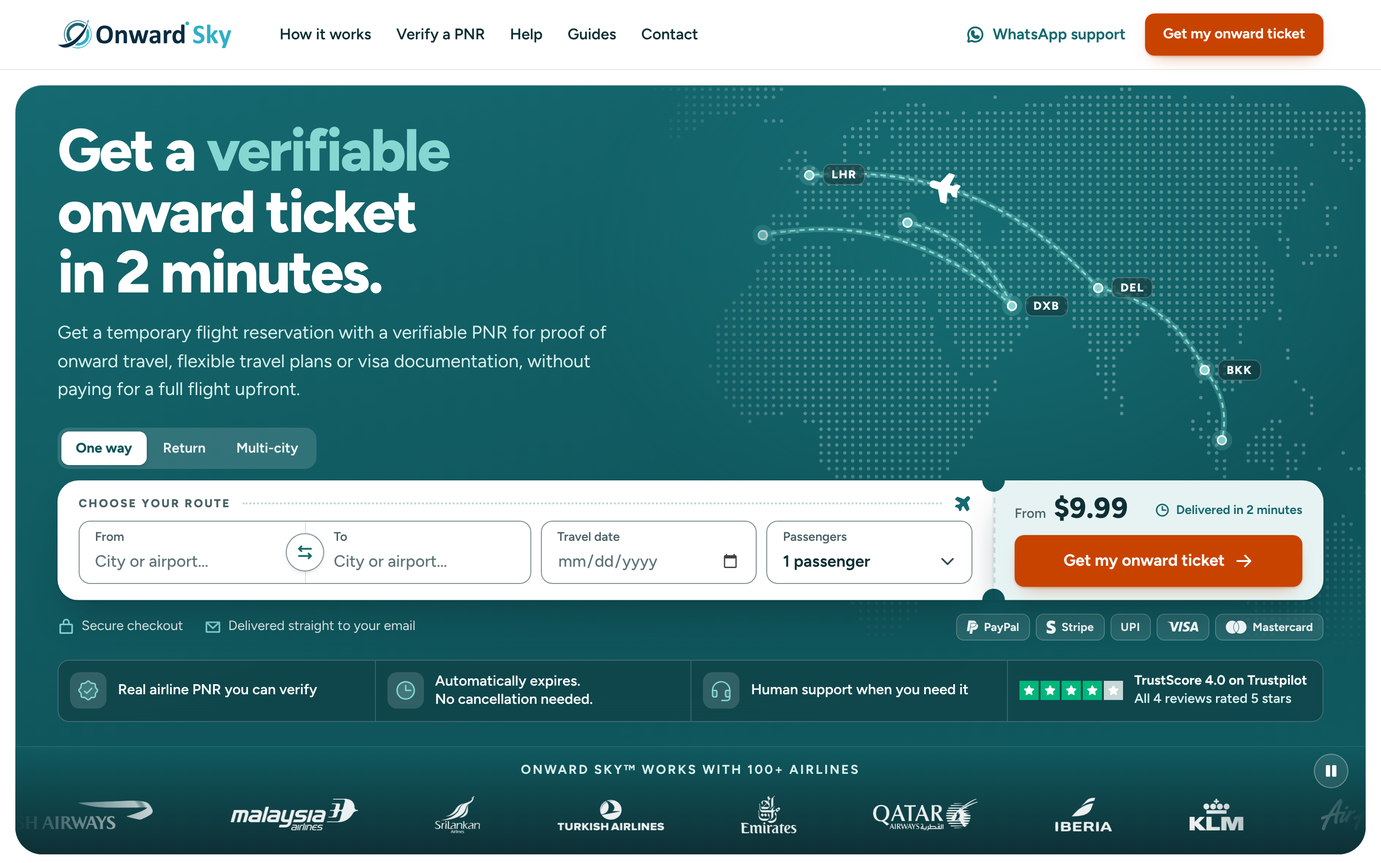
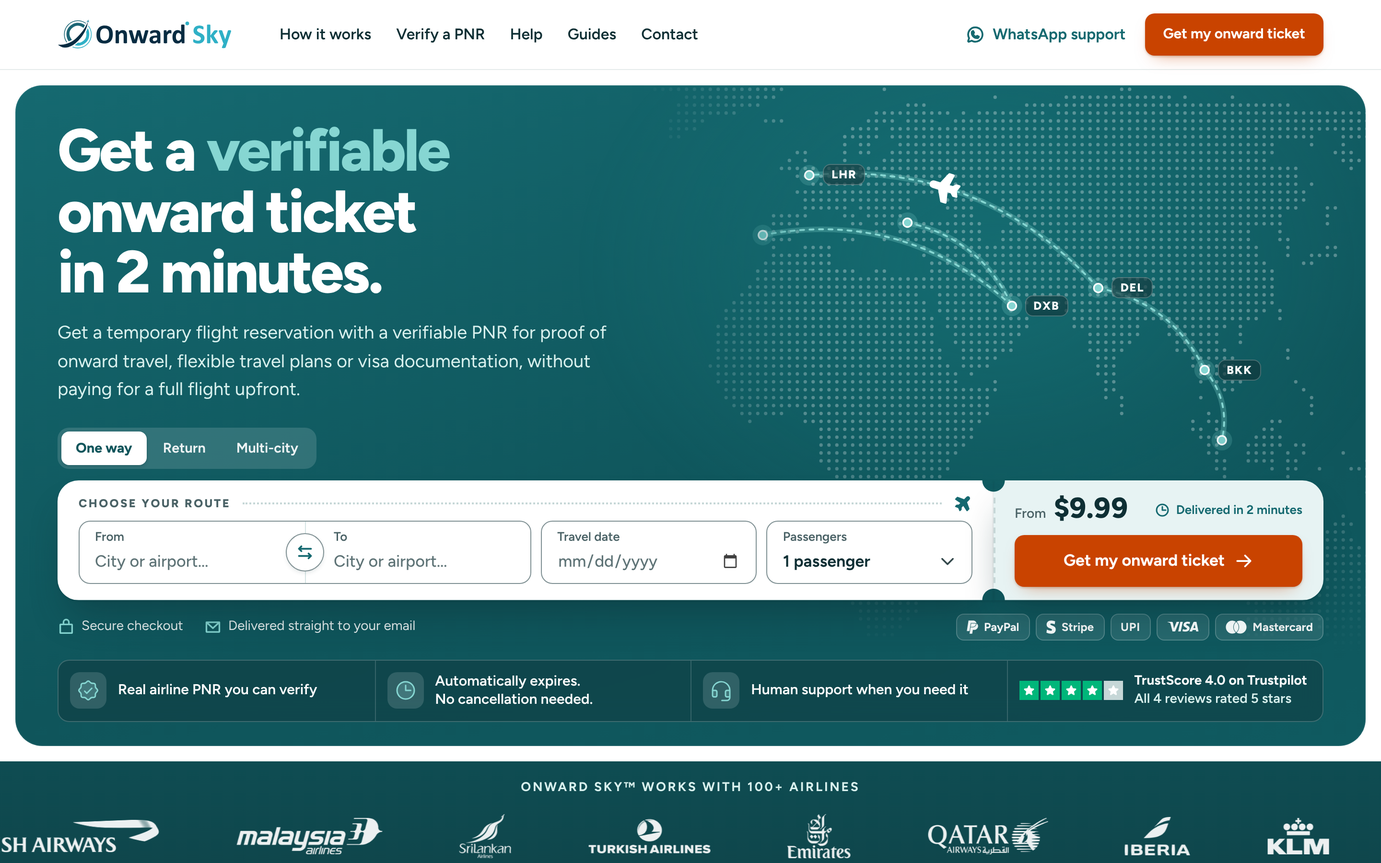
Airline strip as its own full-width band; clouds behind the reviews
- The logo strip leaves the hero card: a full-width band under it, no edge
  fade, in the hero's deep teal under a 22-42% veil of the heading teal (one
  step darker, same family; no new colour).
- The reviews section gets a sky: Tabler filled clouds as soft banks and a
  dashed flight path with Tabler's filled plane, built by the art script,
  placed around the content at every width.
- Docs and screenshots updated.

Claude-Session: https://claude.ai/code/session_01VmuJNxnGnwEJR8xbB3iXyr

Changed region(s): [[0.0, 0.84, 1.0, 1.0]]

diff --git a/onwardsky-premium-redesign/index.html b/onwardsky-premium-redesign/index.html
@@ -224,45 +224,46 @@
             </li>
           </ul>
         </div>
+      </div>
 
-        <div class="strip" data-marquee>
-          <h2 class="strip-title" id="strip-title"><span translate="no">Onward&nbsp;Sky™</span> works with 100+&nbsp;airlines</h2>
-          <div class="marquee">
-            <ul class="marquee-track" aria-labelledby="strip-title">
-              <li><img src="assets/airlines/british-airways.webp" alt="British Airways" width="457" height="71" style="--h: 27px"></li>
-              <li><img src="assets/airlines/malaysia-airlines.webp" alt="Malaysia Airlines" width="386" height="96" style="--h: 30px"></li>
-              <li><img src="assets/airlines/srilankan-airlines.webp" alt="SriLankan Airlines" width="114" height="96" style="--h: 36px"></li>
-              <li><img src="assets/airlines/turkish-airlines.webp" alt="Turkish Airlines" width="333" height="96" style="--h: 29px"></li>
-              <li><img src="assets/airlines/emirates.webp" alt="Emirates" width="139" height="96" style="--h: 36px"></li>
-              <li><img src="assets/airlines/qatar-airways.webp" alt="Qatar Airways" width="318" height="96" style="--h: 30px"></li>
-              <li><img src="assets/airlines/iberia.webp" alt="Iberia" width="161" height="96" style="--h: 32px"></li>
-              <li><img src="assets/airlines/klm.webp" alt="KLM" width="164" height="96" style="--h: 30px"></li>
-              <li><img src="assets/airlines/airasia.webp" alt="AirAsia" width="235" height="96" style="--h: 30px"></li>
-              <li aria-hidden="true"><img src="assets/airlines/british-airways.webp" alt="" width="457" height="71" style="--h: 27px"></li>
-              <li aria-hidden="true"><img src="assets/airlines/malaysia-airlines.webp" alt="" width="386" height="96" style="--h: 30px"></li>
-              <li aria-hidden="true"><img src="assets/airlines/srilankan-airlines.webp" alt="" width="114" height="96" style="--h: 36px"></li>
-              <li aria-hidden="true"><img src="assets/airlines/turkish-airlines.webp" alt="" width="333" height="96" style="--h: 29px"></li>
-              <li aria-hidden="true"><img src="assets/airlines/emirates.webp" alt="" width="139" height="96" style="--h: 36px"></li>
-              <li aria-hidden="true"><img src="assets/airlines/qatar-airways.webp" alt="" width="318" height="96" style="--h: 30px"></li>
-              <li aria-hidden="true"><img src="assets/airlines/iberia.webp" alt="" width="161" height="96" style="--h: 32px"></li>
-              <li aria-hidden="true"><img src="assets/airlines/klm.webp" alt="" width="164" height="96" style="--h: 30px"></li>
-              <li aria-hidden="true"><img src="assets/airlines/airasia.webp" alt="" width="235" height="96" style="--h: 30px"></li>
-              <li aria-hidden="true"><img src="assets/airlines/british-airways.webp" alt="" width="457" height="71" style="--h: 27px"></li>
-              <li aria-hidden="true"><img src="assets/airlines/malaysia-airlines.webp" alt="" width="386" height="96" style="--h: 30px"></li>
-              <li aria-hidden="true"><img src="assets/airlines/srilankan-airlines.webp" alt="" width="114" height="96" style="--h: 36px"></li>
-              <li aria-hidden="true"><img src="assets/airlines/turkish-airlines.webp" alt="" width="333" height="96" style="--h: 29px"></li>
-              <li aria-hidden="true"><img src="assets/airlines/emirates.webp" alt="" width="139" height="96" style="--h: 36px"></li>
-              <li aria-hidden="true"><img src="assets/airlines/qatar-airways.webp" alt="" width="318" height="96" style="--h: 30px"></li>
-              <li aria-hidden="true"><img src="assets/airlines/iberia.webp" alt="" width="161" height="96" style="--h: 32px"></li>
-              <li aria-hidden="true"><img src="assets/airlines/klm.webp" alt="" width="164" height="96" style="--h: 30px"></li>
-              <li aria-hidden="true"><img src="assets/airlines/airasia.webp" alt="" width="235" height="96" style="--h: 30px"></li>
-            </ul>
-          </div>
+      <div class="strip" data-marquee>
+        <h2 class="strip-title" id="strip-title"><span translate="no">Onward&nbsp;Sky™</span> works with 100+&nbsp;airlines</h2>
+        <div class="marquee">
+          <ul class="marquee-track" aria-labelledby="strip-title">
+            <li><img src="assets/airlines/british-airways.webp" alt="British Airways" width="457" height="71" style="--h: 27px"></li>
+            <li><img src="assets/airlines/malaysia-airlines.webp" alt="Malaysia Airlines" width="386" height="96" style="--h: 30px"></li>
+            <li><img src="assets/airlines/srilankan-airlines.webp" alt="SriLankan Airlines" width="114" height="96" style="--h: 36px"></li>
+            <li><img src="assets/airlines/turkish-airlines.webp" alt="Turkish Airlines" width="333" height="96" style="--h: 29px"></li>
+            <li><img src="assets/airlines/emirates.webp" alt="Emirates" width="139" height="96" style="--h: 36px"></li>
+            <li><img src="assets/airlines/qatar-airways.webp" alt="Qatar Airways" width="318" height="96" style="--h: 30px"></li>
+            <li><img src="assets/airlines/iberia.webp" alt="Iberia" width="161" height="96" style="--h: 32px"></li>
+            <li><img src="assets/airlines/klm.webp" alt="KLM" width="164" height="96" style="--h: 30px"></li>
+            <li><img src="assets/airlines/airasia.webp" alt="AirAsia" width="235" height="96" style="--h: 30px"></li>
+            <li aria-hidden="true"><img src="assets/airlines/british-airways.webp" alt="" width="457" height="71" style="--h: 27px"></li>
+            <li aria-hidden="true"><img src="assets/airlines/malaysia-airlines.webp" alt="" width="386" height="96" style="--h: 30px"></li>
+            <li aria-hidden="true"><img src="assets/airlines/srilankan-airlines.webp" alt="" width="114" height="96" style="--h: 36px"></li>
+            <li aria-hidden="true"><img src="assets/airlines/turkish-airlines.webp" alt="" width="333" height="96" style="--h: 29px"></li>
+            <li aria-hidden="true"><img src="assets/airlines/emirates.webp" alt="" width="139" height="96" style="--h: 36px"></li>
+            <li aria-hidden="true"><img src="assets/airlines/qatar-airways.webp" alt="" width="318" height="96" style="--h: 30px"></li>
+            <li aria-hidden="true"><img src="assets/airlines/iberia.webp" alt="" width="161" height="96" style="--h: 32px"></li>
+            <li aria-hidden="true"><img src="assets/airlines/klm.webp" alt="" width="164" height="96" style="--h: 30px"></li>
+            <li aria-hidden="true"><img src="assets/airlines/airasia.webp" alt="" width="235" height="96" style="--h: 30px"></li>
+            <li aria-hidden="true"><img src="assets/airlines/british-airways.webp" alt="" width="457" height="71" style="--h: 27px"></li>
+            <li aria-hidden="true"><img src="assets/airlines/malaysia-airlines.webp" alt="" width="386" height="96" style="--h: 30px"></li>
+            <li aria-hidden="true"><img src="assets/airlines/srilankan-airlines.webp" alt="" width="114" height="96" style="--h: 36px"></li>
+            <li aria-hidden="true"><img src="assets/airlines/turkish-airlines.webp" alt="" width="333" height="96" style="--h: 29px"></li>
+            <li aria-hidden="true"><img src="assets/airlines/emirates.webp" alt="" width="139" height="96" style="--h: 36px"></li>
+            <li aria-hidden="true"><img src="assets/airlines/qatar-airways.webp" alt="" width="318" height="96" style="--h: 30px"></li>
+            <li aria-hidden="true"><img src="assets/airlines/iberia.webp" alt="" width="161" height="96" style="--h: 32px"></li>
+            <li aria-hidden="true"><img src="assets/airlines/klm.webp" alt="" width="164" height="96" style="--h: 30px"></li>
+            <li aria-hidden="true"><img src="assets/airlines/airasia.webp" alt="" width="235" height="96" style="--h: 30px"></li>
+          </ul>
         </div>
       </div>
     </section>
 
     <section class="reviews" aria-labelledby="reviews-title">
+      <div class="reviews-sky" aria-hidden="true"><!--ART:review-sky:START--><svg class="sky-defs" width="0" height="0" focusable="false"><defs><path id="sky-c" d="M10.04 4.305c2.195 -.667 4.615 -.224 6.36 1.176c1.386 1.108 2.188 2.686 2.252 4.34l.003 .212l.091 .003c2.3 .107 4.143 1.961 4.25 4.27l.004 .211c0 2.407 -1.885 4.372 -4.255 4.482l-.21 .005h-11.878l-.222 -.008c-2.94 -.11 -5.317 -2.399 -5.43 -5.263l-.005 -.216c0 -2.747 2.08 -5.01 4.784 -5.417l.114 -.016l.07 -.181c.663 -1.62 2.056 -2.906 3.829 -3.518l.244 -.08z" vector-effect="non-scaling-stroke" /></defs></svg><svg class="sky-route" viewBox="0 0 1200 90" overflow="visible" focusable="false"><path d="M0 62C380 4 800 0 1146 35" fill="none" stroke="#156970" stroke-opacity=".34" stroke-width="2" stroke-linecap="round" stroke-dasharray="5 7" /><g transform="translate(1167.9 37.2) rotate(5.8) scale(1.1) translate(-12 -12)"><path d="M12.868 2.504l3.712 6.496h3.42a3 3 0 0 1 0 6h-3.42l-3.712 6.496a1 1 0 0 1 -.868 .504h-3a1 1 0 0 1 -.962 -1.275l1.636 -5.725h-2.26l-1.707 1.707a1 1 0 0 1 -.707 .293h-3a1 1 0 0 1 -.894 -1.447l1.776 -3.553l-1.776 -3.553a1 1 0 0 1 .894 -1.447h3a1 1 0 0 1 .707 .293l1.707 1.707h2.26l-1.636 -5.725a1 1 0 0 1 .962 -1.275h3a1 1 0 0 1 .868 .504" fill="#156970" fill-opacity=".8" /></g></svg><svg class="sky-cloud sky-a" viewBox=".4 3.4 24 16.4" overflow="visible" focusable="false"><g transform="translate(.9 .9)" fill="#E7F3F3"><use href="#sky-c" /></g><g fill="#C8E6E1" stroke="#C8E6E1" stroke-width="4" stroke-linejoin="round"><use href="#sky-c" /></g><g fill="#fff"><use href="#sky-c" /></g></svg><svg class="sky-cloud sky-b" viewBox="-3.6 3.4 28 18.2" overflow="visible" focusable="false"><g transform="translate(.9 .9)" fill="#E7F3F3"><use href="#sky-c" /><use href="#sky-c" transform="translate(-3.62 8.52) scale(.62)" /></g><g fill="#C8E6E1" stroke="#C8E6E1" stroke-width="4" stroke-linejoin="round"><use href="#sky-c" /><use href="#sky-c" transform="translate(-3.62 8.52) scale(.62)" /></g><g fill="#fff"><use href="#sky-c" /><use href="#sky-c" transform="translate(-3.62 8.52) scale(.62)" /></g></svg><svg class="sky-cloud sky-c" viewBox="-3.6 3.4 28 18.2" overflow="visible" focusable="false"><g transform="translate(.9 .9)" fill="#E7F3F3"><use href="#sky-c" /><use href="#sky-c" transform="translate(-3.62 8.52) scale(.62)" /></g><g fill="#C8E6E1" stroke="#C8E6E1" stroke-width="4" stroke-linejoin="round"><use href="#sky-c" /><use href="#sky-c" transform="translate(-3.62 8.52) scale(.62)" /></g><g fill="#fff"><use href="#sky-c" /><use href="#sky-c" transform="translate(-3.62 8.52) scale(.62)" /></g></svg><svg class="sky-cloud sky-d" viewBox=".4 3.4 24 16.4" overflow="visible" focusable="false"><g transform="translate(.9 .9)" fill="#E7F3F3"><use href="#sky-c" /></g><g fill="#C8E6E1" stroke="#C8E6E1" stroke-width="4" stroke-linejoin="round"><use href="#sky-c" /></g><g fill="#fff"><use href="#sky-c" /></g></svg><svg class="sky-cloud sky-e" viewBox=".4 3.4 24 16.4" overflow="visible" focusable="false"><g transform="translate(.9 .9)" fill="#E7F3F3"><use href="#sky-c" /></g><g fill="#C8E6E1" stroke="#C8E6E1" stroke-width="4" stroke-linejoin="round"><use href="#sky-c" /></g><g fill="#fff"><use href="#sky-c" /></g></svg><svg class="sky-cloud sky-f" viewBox="-3.6 3.4 28 18.2" overflow="visible" focusable="false"><g transform="translate(.9 .9)" fill="#E7F3F3"><use href="#sky-c" /><use href="#sky-c" transform="translate(-3.62 8.52) scale(.62)" /></g><g fill="#C8E6E1" stroke="#C8E6E1" stroke-width="4" stroke-linejoin="round"><use href="#sky-c" /><use href="#sky-c" transform="translate(-3.62 8.52) scale(.62)" /></g><g fill="#fff"><use href="#sky-c" /><use href="#sky-c" transform="translate(-3.62 8.52) scale(.62)" /></g></svg><!--ART:review-sky:END--></div>
       <div class="container">
         <div class="reviews-head">
           <div class="reviews-intro">

diff --git a/onwardsky-premium-redesign/assets/css/styles.css b/onwardsky-premium-redesign/assets/css/styles.css
@@ -682,24 +682,23 @@ strong { font-weight: 700; }
 }
 .tile .icon { width: 24px; height: 24px; }
 
-/* ---------- Airline strip: the foot of the hero panel, a sideways marquee ---------- */
+/* ---------- Airline strip: its own band under the hero card, edge to edge, in the hero's teal one step darker ---------- */
 .strip {
   --k: 1;
   position: relative; overflow: hidden;
-  padding: clamp(12px, 1.15vw, 16px) 0 clamp(6px, 0.8vw, 10px);
-  background: linear-gradient(180deg, var(--v9-deep) 0%, var(--heading) 100%);
-  border-radius: 0 0 var(--r-panel) var(--r-panel);
+  margin-top: var(--panel-m); /* the same air under the card as at its sides */
+  padding: clamp(14px, 1.3vw, 18px) 0 clamp(8px, 0.9vw, 12px);
+  /* the hero's deep teal under a veil of the heading teal (22% at the top to 42% at the foot): the same family as the
+     card above, a little darker; alpha values of palette colours, no new colour */
+  background: linear-gradient(180deg, rgba(var(--heading-rgb), 0.22), rgba(var(--heading-rgb), 0.42)), var(--deep);
 }
-.strip::before { content: ""; position: absolute; inset: 0 0 auto; height: 1px; background: rgba(255, 255, 255, 0.08); }
 .strip-title {
   margin: 0; padding: 0 20px; text-align: center;
   font: 700 clamp(0.78rem, 0.74rem + 0.1vw, 0.84rem)/1.35 var(--f); letter-spacing: 0.14em; text-transform: uppercase;
   color: var(--v9-strip-ink); text-wrap: balance;
 }
 .marquee {
-  position: relative; margin-top: clamp(2px, 0.4vw, 6px); overflow: hidden;
-  -webkit-mask-image: linear-gradient(90deg, transparent 0, var(--base) 12%, var(--base) 88%, transparent 100%);
-  mask-image: linear-gradient(90deg, transparent 0, var(--base) 12%, var(--base) 88%, transparent 100%);
+  position: relative; margin-top: clamp(2px, 0.4vw, 6px); overflow: hidden; /* no edge fade: the logos run on past the window */
 }
 .marquee-track {
   display: flex; flex-wrap: nowrap; width: max-content; margin: 0; padding: 0; list-style: none;
@@ -720,7 +719,22 @@ strong { font-weight: 700; }
 /* ---------- Reviews: a Trustpilot ticket beside the heading, then three review tickets ----------
    The same ticket as "Be ready" (a surface stub with a small-caps label and an illustration, a dashed perforation with
    two notches, a white main with an orange label and a barcode), stood upright so three fit side by side. */
-.reviews { padding-block: var(--section-pad); background: var(--base); }
+.reviews { position: relative; isolation: isolate; overflow: clip; padding-block: var(--section-pad); background: var(--base); }
+/* the section's sky (decoration): cloud banks around the content and one flight path with a plane across the top
+   padding, placed from the page's centre line so the composition follows the container (tools/build-review-art.py) */
+.reviews-sky { position: absolute; inset: 0; z-index: -1; pointer-events: none; }
+.sky-defs { position: absolute; width: 0; height: 0; overflow: hidden; }
+.sky-cloud, .sky-route { position: absolute; display: block; height: auto; max-width: none; }
+.sky-route { top: 8px; left: calc(50% - 1100px); width: 1200px; }
+.sky-a { top: 12px; left: calc(50% + 250px); width: 104px; }                 /* ahead of the plane, above the Trustpilot ticket */
+.sky-b { top: 132px; left: calc(50% + 34px); width: 168px; }                  /* between the lead and the Trustpilot ticket */
+.sky-d { bottom: 22px; left: calc(50% + 440px); width: 112px; }              /* under the tickets, right */
+/* on wide screens the margins beside the content get the larger banks */
+.sky-c { top: 46%; left: calc(50% - 940px); width: 320px; }
+.sky-e { top: 26px; left: calc(50% - 860px); width: 92px; transform: scaleX(-1); }
+.sky-f { top: 150px; left: calc(50% + 610px); width: 290px; transform: scaleX(-1); }
+@media (max-width: 1599.98px) { .sky-c, .sky-e, .sky-f { display: none; } }
+@media (max-width: 1279.98px) { .sky-b { left: calc(50% - 20px); top: 138px; width: 140px; } }
 .h-section, .h-ready {
   font: 700 var(--t-h2)/1.06 var(--f); letter-spacing: -0.028em; color: var(--heading); text-wrap: balance;
 }
@@ -1039,6 +1053,20 @@ strong { font-weight: 700; }
   .review-stub::after { right: -11px; bottom: -11px; }
   .review-art { max-width: 188px; justify-self: center; }
   .review-quote p { max-width: 40em; }
+}
+
+/* the sky on narrower screens: the flight path ends over the right of the heading, fewer clouds */
+@media (max-width: 1099.98px) {
+  .reviews { padding-top: calc(var(--section-pad) + 28px); } /* room for the plane and its cloud above the heading */
+  .sky-route { left: calc(66% - 1168px); top: 0; }
+  .sky-a { left: auto; right: 2%; top: 6px; width: 84px; }
+  .sky-b { display: none; }
+  .sky-d { left: auto; right: 4%; bottom: 14px; width: 96px; }
+}
+@media (max-width: 639.98px) {
+  .sky-route { display: none; }
+  .sky-a { right: -12px; top: 4px; width: 72px; }
+  .sky-d { right: -10px; bottom: 10px; width: 84px; }
 }
 
 /* Phones: one column; each stub is a compact row above its perforation (label beside the art, or the score) */

diff --git a/onwardsky-premium-redesign/tools/build-review-art.py b/onwardsky-premium-redesign/tools/build-review-art.py
@@ -8,9 +8,15 @@ from the npm package and composed the way the client's own illustrations are bui
   * paper objects filled white, one warm accent in the illustration orange;
   * the same slight hand-drawn wobble (an feTurbulence + feDisplacementMap filter with the client's values).
 
+It also builds the reviews section's sky (`review-sky`): Tabler's filled cloud, unchanged, as soft cloud banks (a surface
+shadow, a mint outline, white paper) and a dashed flight path ending in Tabler's filled plane, as on the hero map.
+
 Usage:  python3 tools/build-review-art.py <path-to>/@tabler/icons/icons/outline index.html [preview.html]
+(the filled icons are read from the sibling `filled` folder of the package).
 Each svg lands between <!--ART:<name>:START--> and <!--ART:<name>:END--> markers in index.html (idempotent).
 """
+import math
+import os
 import re
 import sys
 
@@ -69,6 +75,12 @@ def text(x, y, s, size=12.5, rot=0, spacing=1.4, color=INK):
             f'font-weight="800" fill="{color}" stroke="none" letter-spacing="{spacing:g}">{s}</text>')
 
 
+def filled(name):
+    """The outline of one Tabler filled icon (24 x 24 grid)."""
+    svg = open(os.path.join(os.path.dirname(TABLER), 'filled', f'{name}.svg'), encoding='utf-8').read()
+    return re.findall(r'<path d="([^"]+)"', svg)[-1]
+
+
 ARTS = {}
 
 # 1. Review about a visa appointment and a verifiable PNR: the booking reference on a ticket, checked under a
@@ -106,6 +118,41 @@ ARTS['review-itinerary'] = art('review-itinerary',
     + icon('circle-check', 150, 84, 40, fill={0: PAPER}, style={1: f'stroke="{ORANGE}"'}))
 
 
+# 4. The reviews section's sky: cloud banks behind the section and one flight path with a plane across its top.
+#    Each cloud is Tabler's filled `cloud` (bounding box 1 4 22 15), alone or with a smaller copy at its lower left; drawn
+#    as a surface shadow, then the shapes' union outlined in mint (a 4px stroke under the paper leaves 2px showing),
+#    then white paper. Positions are set in the stylesheet (.sky-*), so the composition answers the layout.
+SURFACE, ACCENT = '#E7F3F3', '#156970'
+CLOUD_D, PLANE_D = filled('cloud'), filled('plane')
+BANK = 'translate(-3.62 8.52) scale(.62)'          # the small cloud: bounding box from (-3, 11), 13.6 x 9.3
+
+
+def cloud(cls, bank=False):
+    shapes = ['<use href="#sky-c" />'] + ([f'<use href="#sky-c" transform="{BANK}" />'] if bank else [])
+    vb = '-3.6 3.4 28 18.2' if bank else '.4 3.4 24 16.4'
+    group = ''.join(shapes)
+    return (f'<svg class="sky-cloud {cls}" viewBox="{vb}" overflow="visible" focusable="false">'
+            f'<g transform="translate(.9 .9)" fill="{SURFACE}">{group}</g>'
+            f'<g fill="{MINT}" stroke="{MINT}" stroke-width="4" stroke-linejoin="round">{group}</g>'
+            f'<g fill="{PAPER}">{group}</g></svg>')
+
+
+# the flight path: a cubic arc on a 1200 x 90 box (the stylesheet shows it 1:1), the plane just past its end
+P0, C1, C2, P1 = (0, 62), (380, 4), (800, 0), (1146, 35)
+angle = math.degrees(math.atan2(P1[1] - C2[1], P1[0] - C2[0]))   # Tabler's plane points right
+plane_at = (P1[0] + 22 * math.cos(math.radians(angle)), P1[1] + 22 * math.sin(math.radians(angle)))
+ROUTE = (f'<svg class="sky-route" viewBox="0 0 1200 90" overflow="visible" focusable="false">'
+         f'<path d="M{P0[0]} {P0[1]}C{C1[0]} {C1[1]} {C2[0]} {C2[1]} {P1[0]} {P1[1]}" fill="none" stroke="{ACCENT}" '
+         f'stroke-opacity=".34" stroke-width="2" stroke-linecap="round" stroke-dasharray="5 7" />'
+         f'<g transform="translate({plane_at[0]:.1f} {plane_at[1]:.1f}) rotate({angle:.1f}) scale(1.1) translate(-12 -12)">'
+         f'<path d="{PLANE_D}" fill="{ACCENT}" fill-opacity=".8" /></g></svg>')
+
+ARTS['review-sky'] = (f'<svg class="sky-defs" width="0" height="0" focusable="false"><defs>'
+                      f'<path id="sky-c" d="{CLOUD_D}" vector-effect="non-scaling-stroke" /></defs></svg>'
+                      + ROUTE + cloud('sky-a') + cloud('sky-b', bank=True) + cloud('sky-c', bank=True)
+                      + cloud('sky-d') + cloud('sky-e') + cloud('sky-f', bank=True))
+
+
 html = open(HTML, encoding='utf-8').read()
 for name, svg in ARTS.items():
     pattern = rf'<!--ART:{name}:START-->.*?<!--ART:{name}:END-->'
@@ -119,7 +166,7 @@ if not PREVIEW:
 else:
     # a side-by-side sheet: the client's four drawings, then the new ones
     ready = re.findall(r'<!--ART:(?:checkin|arrival|visa|takeoff):START-->(.*?)<!--ART', html, re.S)
-    cells = ''.join(f'<div class="c">{s}</div>' for s in ready + list(ARTS.values()))
+    cells = ''.join(f'<div class="c">{s}</div>' for s in ready + [v for k, v in ARTS.items() if k != 'review-sky'])
     open(PREVIEW, 'w', encoding='utf-8').write(
         '<!doctype html><meta charset="utf-8"><style>body{margin:0;padding:20px;background:#F5FAFA;'
         'display:grid;grid-template-columns:repeat(4,300px);gap:20px}.c{background:#E7F3F3;border-radius:18px;'

diff --git a/onwardsky-premium-redesign/DESIGN-SYSTEM.md b/onwardsky-premium-redesign/DESIGN-SYSTEM.md
@@ -3,7 +3,7 @@
 The page is one family of tickets, drawn in vectors only. The hero is a deep-teal panel with a dot-matrix world map
 (Natural Earth data) on which flight routes join real airports; the headline sits at the left on the plain gradient and a
 **boarding-pass-shaped booking bar** is laid across the panel. One glass bar carries the three promises and the
-Trustpilot score, and the airline logos run along the panel's foot like a horizon. Below the hero, the reviews open with a
+Trustpilot score; under the card, the airline logos run edge to edge on their own band of darker hero teal. Below the hero, the reviews open with a
 small Trustpilot ticket and continue in three review tickets built like the client's “Be ready” stubs, each with a picture
 drawn the way the client's are; the “Be ready” tickets sit on the same dotted map, in the brand teal. Colour, type and the
 client's artwork come from the production site; there is no photograph and nothing is drawn freehand (the new pictures are
@@ -206,9 +206,16 @@ problem.
 **Proof bar.** The three promises and the TrustScore line as one glass object (heading at 40%, a 10px blur, a 1px white edge at
 20%) with four cells split by hairlines; the Trustpilot cell sizes to its content and shows a white focus ring inside its edge.
 
-**Airline strip.** The panel's foot: gradient `--v9-deep` → `--heading`, centred small-caps title, the client's nine logos in a
-sideways marquee (46s, masked edges) that pauses on hover, on focus and off screen (the pause button was removed at the client's request in v7.1; logos 15% larger), and becomes a static
-row under reduced motion.
+**Airline strip (v7.2).** Its own band under the hero card (separated by the card's margin), full width: `--deep` under a
+veil of `--heading` at 22% (top) to 42% (foot), the hero's teal one step darker. Centred small-caps title, the client's nine
+logos in a sideways marquee (46s, no edge fade, so they run on past the window's edges) that pauses on hover, on focus and
+off screen, and becomes a static row under reduced motion. Logo scale 1.0 / 1.07 / 1.26 (phone / tablet / desktop).
+
+**Reviews sky (v7.2).** Decoration behind the reviews (`.reviews-sky`, `aria-hidden`): cloud banks built from Tabler's filled
+cloud (a surface shadow offset down-right, the union outlined in mint at 2px, white paper), and a dashed accent flight path at
+34% across the top padding ending in Tabler's filled plane, heading for a cloud above the Trustpilot ticket. Placed from the
+page's centre line: between the lead and the ticket and under the tickets on laptops, larger banks in the margins from
+1600px, the plane and two clouds on tablets (with 28px more top padding), two small clouds on phones.
 
 **Reviews (redesigned as tickets in v7).** The heading and lead at the left and, at the right, a **Trustpilot ticket** that is
 one link: a surface stub with “TRUSTSCORE” and the score “4.0” in the accent (the stage word of the client's stubs), a dashed

diff --git a/onwardsky-premium-redesign/README.md b/onwardsky-premium-redesign/README.md
@@ -41,6 +41,18 @@ At the client's request the round pause button on the airline strip is gone, and
 (scale 1.26 on desktops, 1.07 on tablets, 1.0 on phones; rows 60–74px tall). The strip still pauses on hover and keyboard
 focus, rests off screen, and becomes a static row under reduced motion.
 
+## v7.2
+
+- **The airline strip is its own band.** It left the hero card: it now runs under the card, separated from it by the card's
+  own margin, from one edge of the window to the other, and the logos scroll on past both edges (no fade). Its colour is the
+  hero's teal one step darker (the deep teal under a 22–42% veil of the heading teal), so it stays in the card's family; no
+  new colour.
+- **A sky behind the reviews.** Soft cloud banks (Tabler's filled cloud: a surface shadow, a mint outline, white paper) sit
+  around the content, and a dashed flight path crosses the top of the section with a small plane heading for a cloud above
+  the Trustpilot ticket, the same dashed line as the routes on the hero map. Built by `tools/build-review-art.py`; larger banks
+  appear in the margins of wide screens, two small clouds on phones. Decoration only (`aria-hidden`), never under text that
+  would lose contrast.
+
 ## Preview it
 
 The prototype is static HTML, CSS and vanilla JavaScript. There is no build step and nothing to install.
@@ -67,7 +79,7 @@ preloading is simply skipped under `file://`.
 | Look at the first screen on a laptop | The headline, the route map with its airport tags and airplane, the boarding-pass form with its orange button, the proof bar and the logo strip, all visible at 1440×900 |
 | Widen the window from 1280px to 1920px and beyond | The hero panel keeps a slim margin to the window and grows to 1640px; the map's dots run on to its edge (Japan, Australia) while the routes stay where they were |
 | Shrink the window below 1200px, 1180px, then 900px | The header folds into the menu at 1200px; the ticket becomes a card at 1180px, set lower so the map shows above it (only above it, so the lead stays on the plain teal); below 900px the layout stacks and the map is not shown |
-| Watch the airline strip | The nine logos scroll sideways; hover pauses them; the round button at its right pauses and plays them; they also rest while the strip is off screen |
+| Watch the airline strip | Its own band under the hero card, edge to edge, in the hero teal one step darker; the nine logos scroll sideways and run on past both edges of the window; hover or keyboard focus pauses them; they rest while the band is off screen |
 | Turn on “reduce motion” in your OS | The logos become a static centred row; the entrance and slide-in effects and the map's fade are skipped |
 | Type `del`, `bom`, `bangkok` or `saigon` in **From** | Ranked airport suggestions with boxed codes; ↑/↓ + Enter or click to choose |
 | Click anywhere in a field cell | The control inside takes focus (the passenger cell opens its list) |

diff --git a/DESIGN.md b/DESIGN.md
@@ -298,7 +298,7 @@ Density is calm: large type, generous space, surfaces that change by meaning (br
 - One picture, and it is information: routes between real airports, the client's own dotted-globe motif made precise. It is masked out across the text column, so text never sits on it.
 - Ticket vocabulary everywhere: dashed perforation, semicircle notches, a barcode bar, small-caps stub labels, departure-board codes.
 - Burnt orange appears only on actions and on error text (the production's own choice).
-- A sideways airline-logo marquee as the foot of the panel; it pauses on hover and focus (no pause button, at the client's request).
+- A sideways airline-logo marquee on its own full-width band under the card, in the hero's teal one step darker; it pauses on hover and focus (no pause button, at the client's request).
 
 ## Colors
 
@@ -396,7 +396,10 @@ Radii follow the production geometry: 8px chips, tabs and map tags, 10px buttons
 - The three promises and the TrustScore line as one glass object (heading at 40%, a 10px blur, a 1px white edge at 20%) with four cells split by hairlines: a 38px tile with a duotone icon in aqua and one sentence each; the Trustpilot cell sizes to its content, links to the client's page and shows a white focus ring inside its edge. A row from 1180px, 2 by 2 from 1100 to 1179px, a column below.
 
 ### Airline Strip
-- The panel's foot: gradient deep-section to heading, small-caps title, the client's nine logos in a sideways marquee (three sets, 46s linear, masked edges). Pauses on hover, on focus, off screen and with a visible button; static centred row under reduced motion.
+- Its own full-width band under the hero card (separated by the card's margin): deep teal under a 22-42% veil of the heading teal, the hero's colour one step darker. Small-caps title, the client's nine logos in a sideways marquee (three sets, 46s linear, no edge fade). Pauses on hover, on focus and off screen; static centred row under reduced motion.
+
+### Reviews Sky
+- Decoration behind the reviews: Tabler filled clouds as soft banks (surface shadow, mint 2px outline, white paper) and a dashed accent flight path with Tabler's filled plane across the top, as on the hero map; aria-hidden, placed around the content.
 
 ### Reviews
 - **Trustpilot ticket** (one link, white, 18px radius, the ticket shadow): a surface stub with "TRUSTSCORE" and the score "4.0" in accent at 2.75rem, a dashed perforation with two notches, then four of five green squares, "TrustScore 4.0 on Trustpilot", "All 4 reviews rated 5 stars" and, under a rule, "Read more reviews on Trustpilot" with an arrow that nudges on hover. On phones the stub becomes a row above the perforation.

diff --git a/onwardsky-premium-redesign/assets/SOURCES.md b/onwardsky-premium-redesign/assets/SOURCES.md
@@ -8,6 +8,7 @@ scripts that reproduce the derived files are in [`../tools/`](../tools/README.md
 | --- | --- | --- | --- |
 | Route map (`vectors/route-map.svg`) | Hero panel, at the right, behind the form | **Computed** by `tools/build-route-map.mjs`: land from **[Natural Earth](https://www.naturalearthdata.com)** 1:110m (via npm `world-atlas@2.0.2`, decoded with `topojson-client@3.1.0`), projected with **`d3-geo@3.1.1`** (Equal Earth) and sampled as a dot matrix; five routes computed between real airport coordinates; the airplane is Phosphor's `airplane-fill` | Natural Earth: **public domain**. `world-atlas`, `topojson-client`, `d3-geo`: **ISC** (build-time only, not shipped). Phosphor: **MIT** |
 | Review illustrations (3, inline in `index.html`) | The stubs of the three review tickets | **Composed** by `tools/build-review-art.py` from **[Tabler Icons](https://tabler.io/icons)** (npm `@tabler/icons@3.52.0`, outline set): `calendar-event`, `ticket`, `zoom-check`, `device-mobile`, `mail`, `send`, `stopwatch`, `file-text`, `id`, `circle-check`. The icons' paths are used unchanged; the script places, scales and rotates them and builds each picture the way the client's “Be ready” drawings are built (see below) | Tabler Icons: **MIT**, © 2020-2026 Paweł Kuna (licence text in `LICENSE-Tabler-Icons-MIT.txt`); the composed SVG is inline |
+| Reviews sky (inline in `index.html`) | Behind the reviews section | **Composed** by the same script from Tabler's **filled** `cloud` and `plane` (paths unchanged): cloud banks in surface, mint and white, a dashed flight path in the accent | Tabler Icons: **MIT** |
 | Dot texture (`vectors/world-dots.svg`) | “Be ready” section background | The same dot matrix, without routes, in the brand teal at 16% | As above |
 | Airline logos (9, `airlines/*.webp`) | Hero strip marquee | **Supplied by the client** (`imgi_39…47` archive); byte-identical copies | Client; the marks belong to their airlines |
 | "Be ready" illustrations (4) | The four ticket stubs, inline in `index.html` | **The client's current homepage** (the `travel-use-cases` section). Mechanical changes only, see below | Client |

diff --git a/onwardsky-premium-redesign/IMPLEMENTATION-NOTES.md b/onwardsky-premium-redesign/IMPLEMENTATION-NOTES.md
@@ -100,6 +100,16 @@ v7.1 (client request):
   reduced-motion static row remain. Note for sign-off: without a visible pause control a looping animation longer than five
   seconds does not meet WCAG 2.2.2 (Pause, Stop, Hide) for pointer-less users who do not set reduced motion.
 
+v7.2 (client request):
+- **The airline strip left the hero card**: it is now a full-width band under it (`margin-top: var(--panel-m)`), with no edge
+  fade, in `--deep` under a 22–42% veil of `--heading` (the hero's teal one step darker; a navy taken from the logo was tried
+  first and declined by the client). Its title measures at least 8.1 : 1 on the band. The whole hero card is in the first
+  viewport at 1920×1080, 1536×864, 1440×900, 1366×768 and 1024×768 (at 1280×720 it was not before either); the band starts
+  right under it.
+- **A sky behind the reviews**: `.reviews-sky` (decoration, `aria-hidden`) holds clouds and a flight path built by
+  `tools/build-review-art.py` from Tabler's filled `cloud` and `plane`. The tickets' notch discs stay white because the section
+  ground stays white. On tablets the section gets 28px more top padding so the plane and its cloud sit above the heading.
+
 ## 4. Reference gaps and assumptions
 
 - **Airline logos** are the client's nine `.webp` files, copied unchanged (white marks, transparent background). The production strip paints them through CSS `mask-image`; the prototype uses `<img>` so the page also works when opened from disk (Chrome blocks file masks over `file://`). Sizes follow the production strip.

diff --git a/onwardsky-premium-redesign/tools/README.md b/onwardsky-premium-redesign/tools/README.md
@@ -30,6 +30,7 @@ NODE_PATH=mapgen/node_modules node tools/build-route-map.mjs mapgen/node_modules
 ```bash
 # 4. Review illustrations (v7): Tabler Icons (MIT) composed in the construction of the client's "Be ready"
 #    drawings (peach and mint blocks, 2.4-unit ink line, white paper, one orange accent, the client's wobble filter).
+#    It also builds the reviews sky (Tabler's filled cloud and plane, read from the package's sibling `filled` folder).
 #    Add a third argument (an output .html path) for a side-by-side preview with the client's four drawings.
 npm pack @tabler/icons@3.52.0 && mkdir -p tabler && tar -xzf tabler-icons-3.52.0.tgz -C tabler
 python3 tools/build-review-art.py tabler/package/icons/outline index.html
